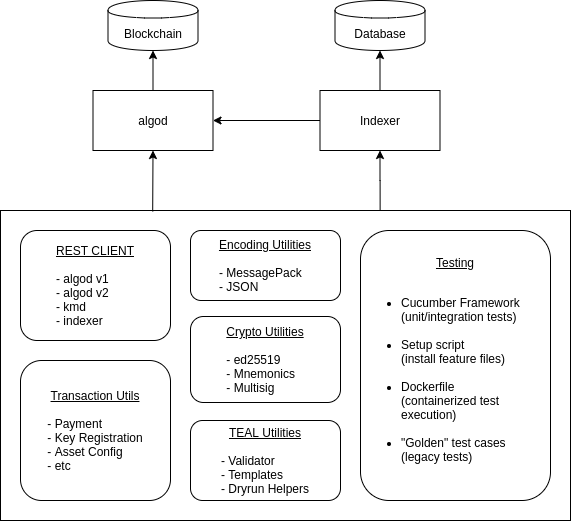
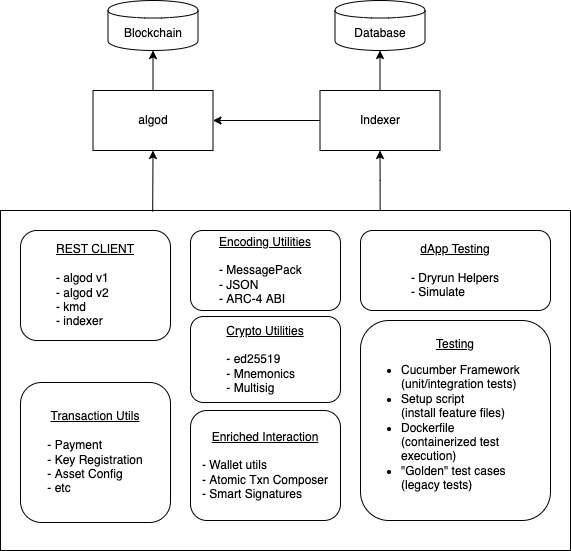
Small Improvements

diff --git a/README.md b/README.md
@@ -8,7 +8,7 @@ The files in this repository are used for testing the different Algorand SDK imp
 
 To define tests we use [cucumber](https://cucumber.io/), and feature files written with [gherkin syntax](https://cucumber.io/docs/gherkin/reference/). Each SDK is responsible for finding a framework which can use these files. There are implementations for [many popular programming languages](https://cucumber.io/docs/installation/).
 
-We have different feature files for unit and integration tests. The unit tests should be run as a normal part of development to quickly identify bugs and regressions. Integration tests on the other hand take much longer to run and require a special test environment. The test environment is made up of multiple services and managed with [docker compose](https://docs.docker.com/compose/).
+We have different feature files for unit and integration tests. The unit tests should be run as a normal part of development to quickly identify bugs and regressions. Integration tests, on the other hand, take much longer to run and require a special test environment. The test environment is made up of multiple services and managed with [docker compose](https://docs.docker.com/compose/).
 
 ## Test Descriptions
 
@@ -21,31 +21,28 @@ These reside in the [unit features directory](features/unit)
 | @unit                             | Select all unit tests.                                |
 | @unit.abijson                     | ABI types and method encoding/decoding unit tests.    |
 | @unit.algod                       | Algod REST API unit tests.                            |
-| @unit.algod.ledger_refactoring    |                                                       |
 | @unit.blocksummary                | Algod / Indexer block REST API unit tests.            |
 | @unit.applications                | Application endpoints added to Algod and Indexer.     |
+| @unit.applications.boxes          | Box endpoints for Algod and Indexer.                  |
 | @unit.atomic_transaction_composer | ABI / atomic transaction construction unit tests.     |
-| @unit.atc_method_args             | Test that algod's Atomic Transaction Composer assserts that the same number of arguments given as expected |
-| @unit.c2c                         | Test for contract to contract calling                 |
+| @unit.atc_method_args             | Test that algod's Atomic Transaction Composer assserts that the same number of arguments given as expected.|
 | @unit.dryrun                      | Dryrun endpoint added to Algod.                       |
 | @unit.dryrun.trace.application    | DryrunResult formatting tests.                        |
 | @unit.feetest                     | Fee transaction encoding tests.                       |
 | @unit.indexer                     | Indexer REST API unit tests.                          |
-| @unit.indexer.ledger_refactoring  | Assertions for indexer after ledger refactoring.      |
 | @unit.indexer.logs                | Application logs endpoints added to Indexer.          |
-| @unit.indexer.rekey               | Rekey endpoints added to Algod and Indexer            |
-| @unit.offline                     | The first unit tests we wrote for cucumber.           |
+| @unit.indexer.rekey               | Rekey endpoints added to Algod and Indexer.           |
+| @unit.offline                     | Offline account operations.                           |
 | @unit.rekey                       | Rekey Transaction golden tests.                       |
 | @unit.responses                   | REST Client Response serialization tests.             |
-| @unit.responses.231               | REST Client Unit Tests for Indexer 2.3.1+             |
-| @unit.responses.genesis           | REST Client Unit Tests for GetGenesis endpoint        |
-| @unit.responses.messagepack       | REST Client MessagePack Unit Tests                    |
-| @unit.responses.messagepack.231   | REST Client MessagePack Unit Tests for Indexer 2.3.1+ |
-| @unit.responses.participationupdates | REST Client Response serialization test for ParticipationUpdates|
+| @unit.responses.genesis           | REST Client Unit Tests for GetGenesis endpoint.       |
+| @unit.responses.messagepack       | REST Client MessagePack Unit Tests.                   |
+| @unit.responses.messagepack.231   | REST Client MessagePack Unit Tests for Indexer 2.3.1+.|
+| @unit.responses.participationupdates | REST Client Response serialization test for ParticipationUpdates.|
 | @unit.responses.blocksummary      | REST Client updates for indexer/algod block endpoints.|
 | @unit.responses.statedelta        | REST Client updates for algod statedelta endpoint.    |
 | @unit.sourcemap                   | Test the sourcemap endpoint.                          |
-| @unit.statedelta                  | Test the statedleta endpoint.                         |
+| @unit.statedelta                  | Test the statedelta endpoint.                         |
 | @unit.stateproof.responses        | REST Client Response Tests for State Proof.           |
 | @unit.stateproof.responses.msgp   | REST Client MessagePack Tests for State Proofs.       |
 | @unit.stateproof.paths            | REST Client Unit Tests for State Proof feature.       |
@@ -66,13 +63,13 @@ These reside in the [integration features directory](features/integration)
 | @applications.verified | Submit all types of application transactions and verify account state.                 |
 | @assets                | Submit all types of asset transactions.                                                |
 | @auction               | Encode and decode bids for an auction.                                                 |
-| @c2c                   | Test Contract to Contract invocations and injestion.                                   |
+| @c2c                   | Test Contract to Contract invocations and ingestion.                                   |
 | @compile               | Test the algod compile endpoint.                                                       |
-| @compile.sourcemap     | Test the algod compile endpoint returns a valid Source Map                             |
+| @compile.sourcemap     | Test that the algod compile endpoint returns a valid Source Map.                       |
 | @dryrun                | Test the algod dryrun endpoint.                                                        |
 | @dryrun.testing        | Test the testing harness that relies on dryrun endpoint. Python only.                  |
 | @kmd                   | Test the kmd REST endpoints.                                                           |
-| @rekey_v1              | Test the rekeying transactions.                                                        |
+| @rekey_v1              | Test rekeying transactions.                                                            |
 | @send                  | Test the ability to submit transactions to algod.                                      |
 | @simulate              | Test the ability to simulate transactions with algod.                                  |
 
@@ -85,7 +82,7 @@ However, a few are not fully supported:
 | tag                             | SDK's which implement        |
 | ------------------------------- | ---------------------------- |
 | @dryrun.testing                 | Python only                  |
-| @unit.c2c                       | missing from Python   |
+| @unit.c2c                       | missing from Python          |
 | @unit.indexer.rekey             | missing from Python and JS   |
 | @unit.responses.genesis         | missing from Python and Java |
 | @unit.responses.messagepack     | missing from Python          |
@@ -121,15 +118,23 @@ One of the basic features of an Algorand SDK is the ability to construct all typ
 
 ### Encoding Utilities
 
-In order to ensure transactions are compact and can hash consistently, there are some special encoding requirements. The SDKs must provide utilities to work with these encodings. Algorand uses MessagePack as a compact binary-encoded JSON alternative, and fields with default values are excluded from the encoded object. Additionally to ensure consistent hashes, the fields must be alphebatized.
+To ensure that transactions are compact and can hash consistently, there are some special encoding requirements. The SDKs must provide utilities to work with these encodings. Algorand uses MessagePack as a compact binary-encoded JSON alternative, and fields with default values are excluded from the encoded object. Additionally to ensure consistent hashes, the fields must be alphabetized. Finally, dApp args and return values can be encoded and decoded in accordance with the [ARC-004 ABI-Type Specification](https://arc.algorand.foundation/ARCs/arc-0004#encoding).
 
 ### Crypto Utilities
 
 All things related to crypto to make it easier for developers to work with the blockchain. This includes standard things like ED25519 signing, up through Algorand specific LogicSig and MultiSig utilities. There are also some convenience methods for converting Mnemonics.
 
-### TEAL Utilities
+### Enriched Interaction
 
-Everything related to working with [TEAL](https://developer.algorand.org/docs/reference/teal/specification/#transaction-execution-approval-language-teal). This includes some utilities for parsing and validating compiled TEAL programs.
+In certain cases, API's are provided to ease interacting
+with the Algorand blockchain.
+This includes [wallet interaction](https://developer.algorand.org/docs/get-details/accounts/create/#wallet-derived-kmd),
+ARC-4 dApp interaction via the [Atomic Transaction Composer](https://developer.algorand.org/docs/get-details/atc/?from_query=atomic#template-modal-overlay),
+and [Smart Signature](https://developer.algorand.org/docs/get-details/dapps/smart-contracts/frontend/smartsigs/?from_query=smart%20signatgure#template-modal-overlay) utilities.
+
+### dApp Testing and Simulate
+
+Utilities for testing [Smart Contracts and dApps](https://developer.algorand.org/docs/get-details/dapps/smart-contracts/). This currently includes utilities for using [dry-runs](https://developer.algorand.org/docs/get-details/dapps/smart-contracts/debugging/?from_query=dry#dryrun-rest-endpoint). It also enables interacting with the [simulate REST endpoint](https://developer.algorand.org/docs/rest-apis/algod/?from_query=simulate#post-v2transactionssimulate).
 
 ### Testing
 
@@ -155,7 +160,7 @@ This command will vary by cucumber implementation, the specific framework docume
 
 ### Adding a new test
 
-When adding a new test to an existing feature file, or a new feature file, a new tag should be created which describes that test. For example, the **templates** feature file has a corresponding `@templates` tag. By adding a new tag for each feature we are able to add new tests to this repository without breaking the SDKs.
+When adding a new test to an existing feature file, or a new feature file, a new tag should be created which describes that test. For example, the **assets** feature file has a corresponding `@assets` tag. By adding a new tag for each feature we are able to add new tests to this repository without breaking the SDKs.
 
 In order for this to work, each SDK maintains a whitelist of tags which have been implemented.
 
